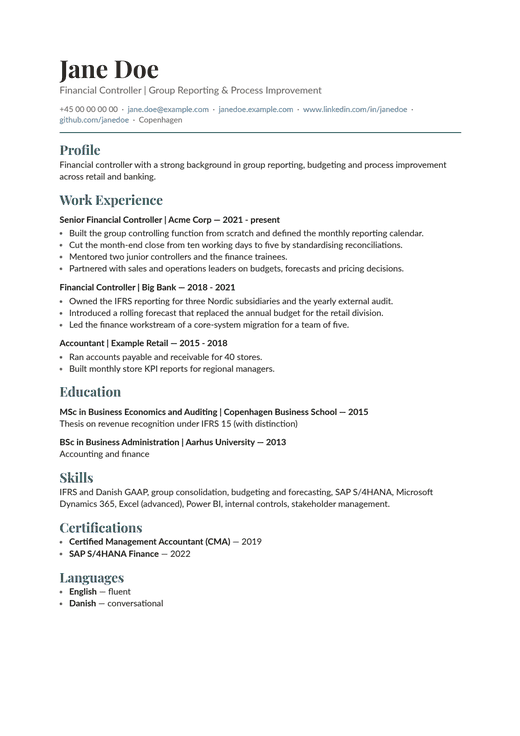
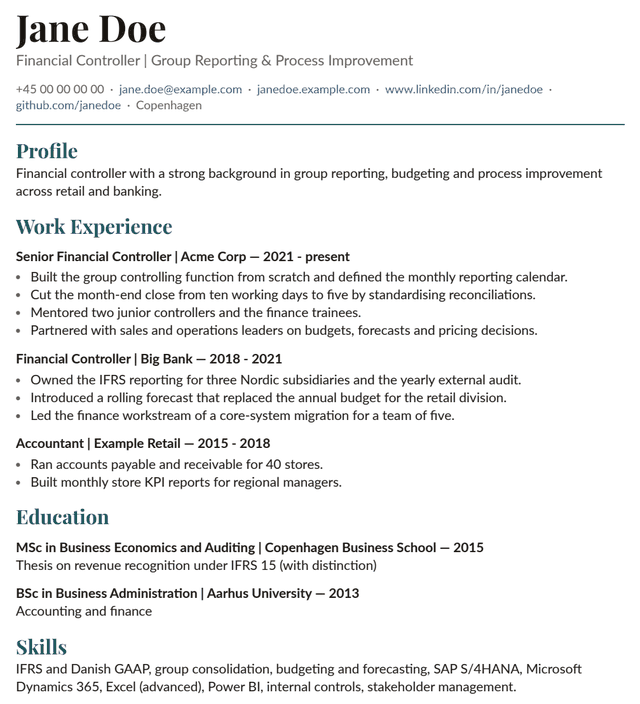
feat: the CV style sample is a close-up: the page cropped to its content and top (#465)
cv_style_sample crops page 1 to its content's width and to its top; the app shows the picture at a fixed width, so the text
is about 11.5 px, cut off at the box's right and foot, with the fade.

Claude-Session: https://claude.ai/code/session_01X7AZRFqExrr4sA3BdgVa7f

Changed region(s): [[0.0, 0.0, 0.9538, 0.875], [0.0308, 0.9062, 0.9231, 1.0]]

diff --git a/app/src/renderer/styles.css b/app/src/renderer/styles.css
@@ -696,7 +696,8 @@ details[open] > summary::before { transform: rotate(90deg); }
 .style-pick input:checked ~ .style-name { color: var(--color-ink); }
 /* the CV's first page, a fixed height that fades at its foot: a sample, not the whole CV */
 .style-sample { position: relative; height: 380px; box-sizing: border-box; max-width: 100%; overflow: hidden; border: 1px solid var(--color-border); border-radius: var(--radius-s); background: var(--color-paper); }
-.style-sample img { display: block; width: 100%; height: 100%; object-fit: cover; object-position: top; }
+/* a close-up: the picture is the page's content at a fixed width (text about 11.5 px), cropped by the box at its right and foot */
+.style-sample img { display: block; width: 530px; max-width: none; height: auto; }
 .style-sample:has(img)::after { content: ""; position: absolute; inset: auto 0 0; height: 72px; background: linear-gradient(to bottom, transparent, var(--color-paper)); pointer-events: none; }
 .style-sample[aria-busy="true"] img { opacity: 0.5; }
 .style-sample-wait { height: 100%; display: grid; place-items: center; color: var(--color-ink-muted); background: var(--color-surface); }

diff --git a/src/door/commands/cv_style_sample.py b/src/door/commands/cv_style_sample.py
@@ -3,13 +3,17 @@
 The desktop app's Profile -> CV style shows it beside the pickers. It prints the user's own CV (else the example CV)
 as it is, with no model but the one cached reading of it (`cv_read`), through the same template and style that `compile`
 uses for a prepared CV, so the sample is what the next prepared CV looks like. Cached under `HOME/.style/preview/` by the
-CV, the style, the photo and the template.
+CV, the style, the photo and the template. The picture is a close-up: the page cropped to its content's width and to
+its top, so the text is large where the app shows it small.
 """
 
 from __future__ import annotations
 
 import base64
 import hashlib
+import io
+
+from PIL import Image, ImageChops
 
 from door.commands import _common as common
 from door.core import cv_read, templates, utils, workspace
@@ -17,6 +21,8 @@ from door.render import cv_body, html_pdf, pdf_render
 from door.render import page as page_mod
 
 SAMPLE_LANGUAGE = "en"
+PADDING = 24  # px around the content kept in the crop (the page is rendered at 150 dpi)
+MAX_ASPECT = 1.1  # the crop is at most this much taller than wide: the app shows the top of it
 
 
 def _check(accent: str, fonts: str) -> None:
@@ -32,6 +38,21 @@ def _cv_text(config: dict) -> tuple[str, bool]:
     if own.is_file():
         return own.read_text(encoding="utf-8"), True
     return (workspace.PROFILE_EXAMPLE_DIR / "cv.md").read_text(encoding="utf-8"), False
+
+
+def _close_up(png: bytes) -> bytes:
+    """`png` (a printed page) cropped to its content's width, with a little padding, and to its top: the page's margins
+    are cut away so the text is big where the app shows it small."""
+    page = Image.open(io.BytesIO(png)).convert("RGB")
+    box = ImageChops.difference(page, Image.new("RGB", page.size, "white")).getbbox()
+    if box is None:
+        return png
+    left, top = max(box[0] - PADDING, 0), max(box[1] - PADDING, 0)
+    right = min(box[2] + PADDING, page.width)
+    bottom = min(box[3] + PADDING, top + round((right - left) * MAX_ASPECT), page.height)
+    out = io.BytesIO()
+    page.crop((left, top, right, bottom)).save(out, format="PNG", optimize=True)
+    return out.getvalue()
 
 
 def _answer(png: bytes, own: bool) -> dict:
@@ -72,6 +93,6 @@ def _cv_style_sample_core(accent: str, fonts: str) -> dict:
                 photo=photo, style=style)
         except (ValueError, html_pdf.PrintError) as exc:
             return {"error": str(exc)}
-        png = pdf_render.render_pdf_pages(pdf, staged)[0].read_bytes()
+        png = _close_up(pdf_render.render_pdf_pages(pdf, staged)[0].read_bytes())
     utils.write_atomic(cached, png)
     return _answer(png, own)

diff --git a/tests/commands/test_cv_style_sample_unit.py b/tests/commands/test_cv_style_sample_unit.py
@@ -88,3 +88,11 @@ def test_a_choice_outside_the_lists_is_refused(world, accent, fonts):
 def test_a_failed_print_is_an_error_in_words(world, monkeypatch):
     install(monkeypatch, fail="Chromium crashed")
     assert "Chromium crashed" in sample_cmd._cv_style_sample_core("teal", "door")["error"]
+
+
+def test_the_sample_is_a_close_up_of_the_content_at_the_top_of_the_page(world):
+    """#465: the page's margins are cropped away and only its top is kept, so the text is big in the app's small box."""
+    image = _png(sample_cmd._cv_style_sample_core("teal", "door"))
+    page_width = round(595 * 150 / 72)  # an A4 page at the render's 150 dpi
+    assert image.width < page_width * 0.9
+    assert image.height <= image.width * sample_cmd.MAX_ASPECT + 1
